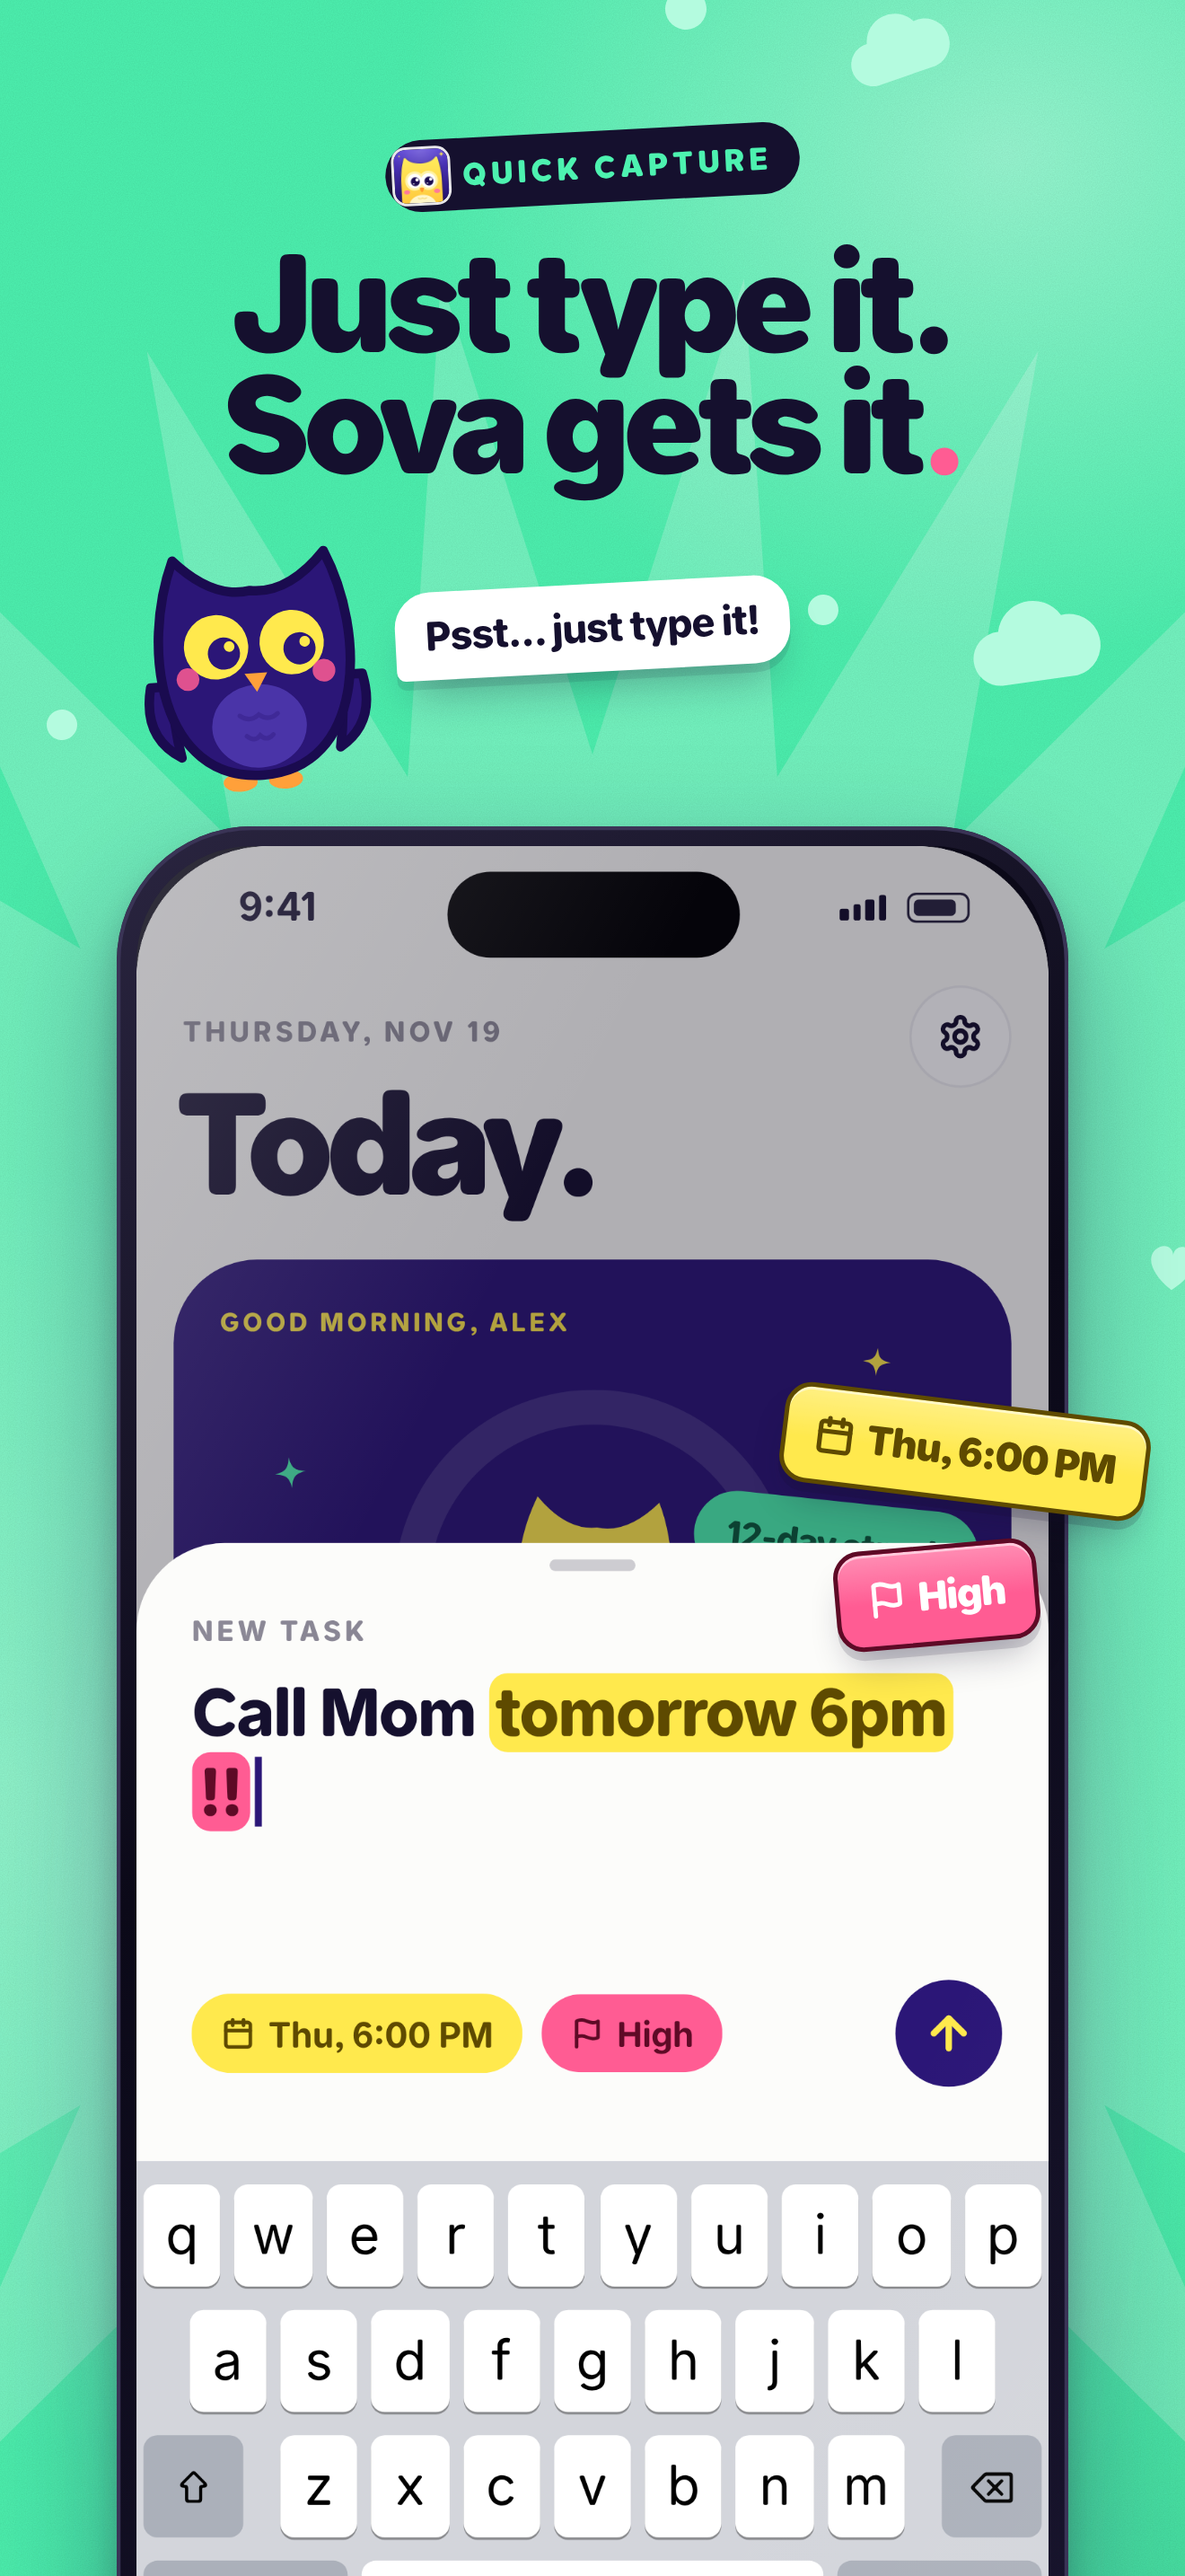
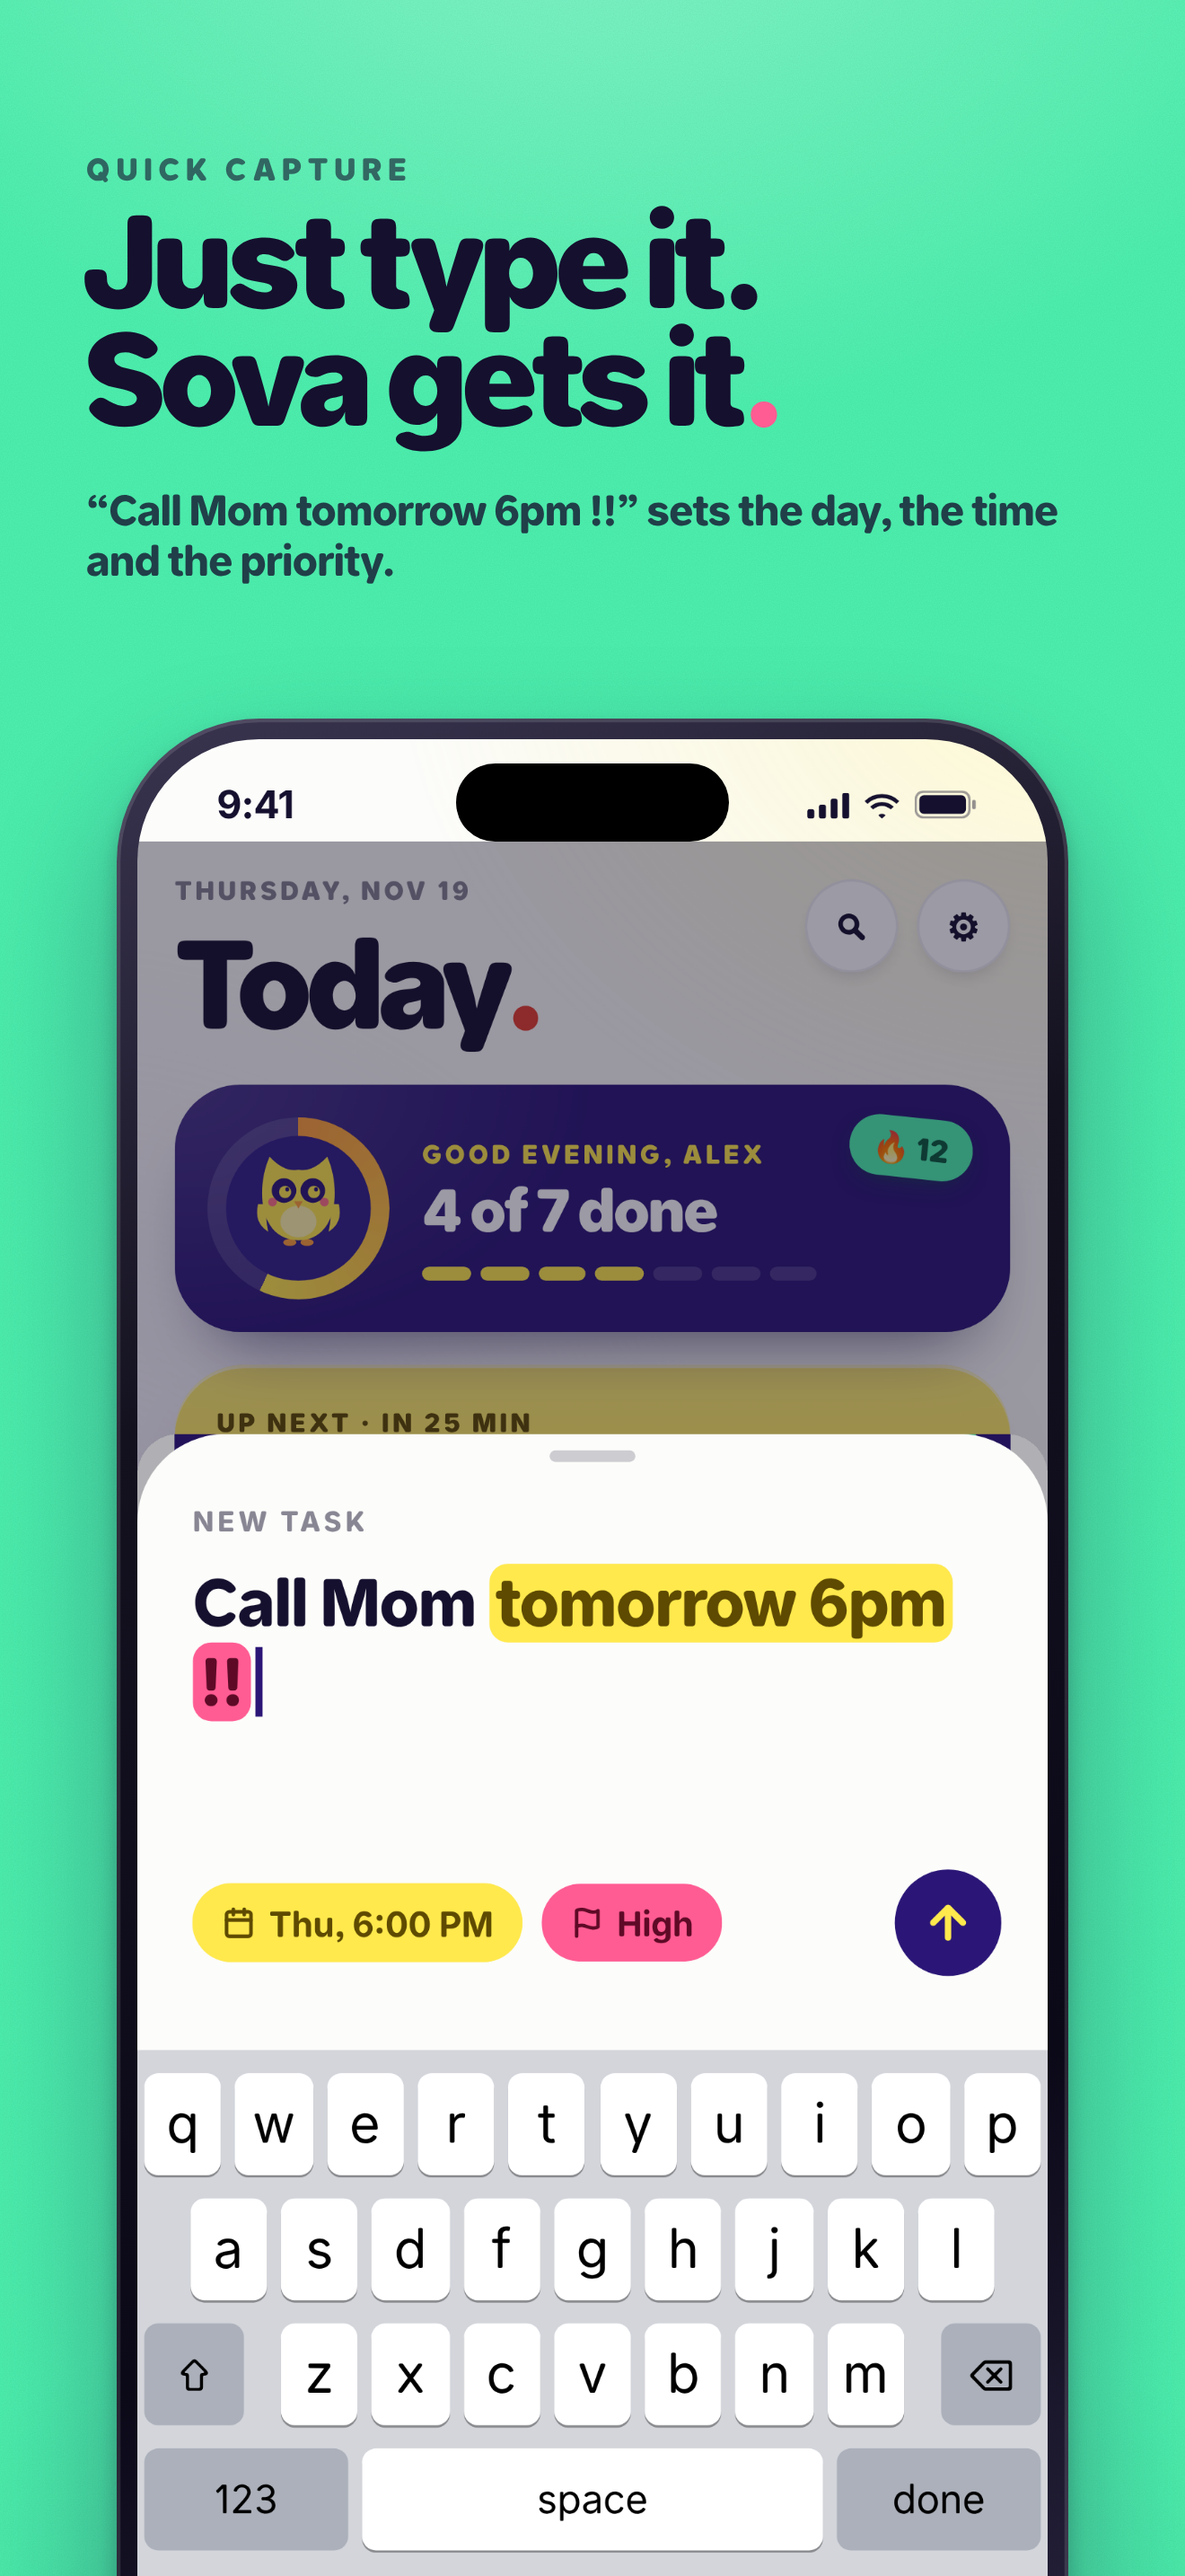
New App Store screenshots, a search preview and an App Preview kit
Screenshots are rebuilt editorially: an eyebrow, a two-line headline
with a colored period, one plain sentence and one large, straight phone
per shot, on a single color with soft light and grain. No floating
hearts, clouds, sparkles or bubbles; the owl appears once, perched on
the first. Every phone shows the current design (Today timeline,
capture over the new Today, Rituals, Tasks, Goals, Insights) with a
real status bar and Dynamic Island.

search-and-header-preview.png shows how the icon, name, subtitle and
first three shots look in App Store search and on the product page.

preview/ holds the App Preview kit: a shot list and recording guide
(Simulator, clean 9:41 status bar) and make-preview.sh, which turns six
clips into an 886x1920, 30 fps, H.264 preview with captions, cross-fades
and a silent stereo track. The press kit, README strip and listing pack
use the new files.

diff --git a/docs/press.html b/docs/press.html
@@ -99,7 +99,7 @@ img,svg{display:block}
 <path d="M40 84 q5 4 10 0 q5 4 10 0 M43 95 q4 3.5 7 0 q3.5 3.5 7 0" stroke="#2B1677" stroke-opacity=".35" stroke-width="2.4" fill="none" stroke-linecap="round"/>
 <g class="eyes"><circle cx="30" cy="47" r="17" fill="#FFE94D"/><g class="pupil"><circle cx="31.5" cy="49" r="8.5" fill="#2B1677"/><circle cx="34.5" cy="45.5" r="2.8" fill="#FFE94D"/></g><circle cx="70" cy="47" r="17" fill="#FFE94D"/><g class="pupil"><circle cx="71.5" cy="49" r="8.5" fill="#2B1677"/><circle cx="74.5" cy="45.5" r="2.8" fill="#FFE94D"/></g></g>
 <circle cx="14" cy="63" r="6" fill="#FF5C93" fill-opacity=".85"/><circle cx="86" cy="63" r="6" fill="#FF5C93" fill-opacity=".85"/>
-<path d="M44 62 L56 62 L50 72Z" fill="#FFA03A"/></svg><h1>Press kit</h1><p>Everything you need to write about Sova.</p></div><div class="layout"><nav class="toc" aria-label="On this page"><a href="#about">About Sova</a><a href="#facts">Fact sheet</a><a href="#assets">Downloads</a><a href="#contact">Press contact</a></nav><article class="doc"><section id="about"><h2>About Sova</h2><p><b>Short:</b> Sova is a friendly iPhone app for tasks, daily habits and big goals, with a little owl cheering you on.</p><p><b>Longer:</b> Sova keeps tasks, rituals and goals in one place. Type a task the way you'd say it and Sova fills in the date, time and priority. Rituals track streaks on the days you choose, goals break into steps, and widgets let you tick things off from the Home Screen. It's free, with Sova Plus for unlimited rituals and goals, iCloud sync and app icons. There's no account and no tracking.</p></section><section id="facts"><h2>Fact sheet</h2><div class="facts"><div><b>Name</b><span>Sova: To-Do List &amp; Habits</span></div><div><b>Platform</b><span>iPhone, iOS 26 or later</span></div><div><b>Price</b><span>Free, Sova Plus optional</span></div><div><b>Developer</b><span>0xpranayyy</span></div><div><b>Website</b><span>0xpranayyy.github.io/sova</span></div><div><b>Category</b><span>Productivity</span></div></div></section><section id="assets"><h2>Downloads</h2><div class="grid-assets"><a class="asset" href="assets/press/sova-icon-1024.png" download><img src="assets/press/sova-icon-1024.png" alt="Sova app icon" loading="lazy">App icon<span>PNG · 1024×1024</span></a><a class="asset" href="assets/press/sova-banner-1920x1080.png" download><img src="assets/press/sova-banner-1920x1080.png" alt="Sova banner" loading="lazy">Banner<span>PNG · 1920×1080</span></a><a class="asset" href="assets/sova-film.mp4" download><img src="assets/film-poster.jpg" alt="Sova film poster" loading="lazy">Launch film<span>MP4 · 31 s · 9:16</span></a><a class="asset" href="assets/press/screenshot-1-hero.png" download><img src="assets/press/screenshot-1-hero.png" alt="Today screenshot" loading="lazy">Today<span>PNG · 1320×2868</span></a><a class="asset" href="assets/press/screenshot-2-capture.png" download><img src="assets/press/screenshot-2-capture.png" alt="Quick capture screenshot" loading="lazy">Quick capture<span>PNG · 1320×2868</span></a><a class="asset" href="assets/press/screenshot-3-rituals.png" download><img src="assets/press/screenshot-3-rituals.png" alt="Rituals screenshot" loading="lazy">Rituals<span>PNG · 1320×2868</span></a><a class="asset" href="assets/press/screenshot-4-goals.png" download><img src="assets/press/screenshot-4-goals.png" alt="Goals screenshot" loading="lazy">Goals<span>PNG · 1320×2868</span></a><a class="asset" href="assets/press/screenshot-5-dark.png" download><img src="assets/press/screenshot-5-dark.png" alt="Dark mode screenshot" loading="lazy">Dark mode<span>PNG · 1320×2868</span></a><a class="asset" href="assets/press/screenshot-6-done.png" download><img src="assets/press/screenshot-6-done.png" alt="All done screenshot" loading="lazy">All done<span>PNG · 1320×2868</span></a></div></section><section id="contact"><h2>Press contact</h2><p>For interviews, review access or questions, see <a href="support.html#contact">how to contact us</a>.</p></section></article></div>
+<path d="M44 62 L56 62 L50 72Z" fill="#FFA03A"/></svg><h1>Press kit</h1><p>Everything you need to write about Sova.</p></div><div class="layout"><nav class="toc" aria-label="On this page"><a href="#about">About Sova</a><a href="#facts">Fact sheet</a><a href="#assets">Downloads</a><a href="#contact">Press contact</a></nav><article class="doc"><section id="about"><h2>About Sova</h2><p><b>Short:</b> Sova is a friendly iPhone app for tasks, daily habits and big goals, with a little owl cheering you on.</p><p><b>Longer:</b> Sova keeps tasks, rituals and goals in one place. Type a task the way you'd say it and Sova fills in the date, time and priority. Rituals track streaks on the days you choose, goals break into steps, and widgets let you tick things off from the Home Screen. It's free, with Sova Plus for unlimited rituals and goals, iCloud sync and app icons. There's no account and no tracking.</p></section><section id="facts"><h2>Fact sheet</h2><div class="facts"><div><b>Name</b><span>Sova: To-Do List &amp; Habits</span></div><div><b>Platform</b><span>iPhone, iOS 26 or later</span></div><div><b>Price</b><span>Free, Sova Plus optional</span></div><div><b>Developer</b><span>0xpranayyy</span></div><div><b>Website</b><span>0xpranayyy.github.io/sova</span></div><div><b>Category</b><span>Productivity</span></div></div></section><section id="assets"><h2>Downloads</h2><div class="grid-assets"><a class="asset" href="assets/press/sova-icon-1024.png" download><img src="assets/press/sova-icon-1024.png" alt="Sova app icon" loading="lazy">App icon<span>PNG · 1024×1024</span></a><a class="asset" href="assets/press/sova-banner-1920x1080.png" download><img src="assets/press/sova-banner-1920x1080.png" alt="Sova banner" loading="lazy">Banner<span>PNG · 1920×1080</span></a><a class="asset" href="assets/sova-film.mp4" download><img src="assets/film-poster.jpg" alt="Sova film poster" loading="lazy">Launch film<span>MP4 · 31 s · 9:16</span></a><a class="asset" href="assets/press/screenshot-1-today.png" download><img src="assets/press/screenshot-1-today.png" alt="Today screenshot" loading="lazy">Today<span>PNG · 1320×2868</span></a><a class="asset" href="assets/press/screenshot-2-capture.png" download><img src="assets/press/screenshot-2-capture.png" alt="Quick capture screenshot" loading="lazy">Quick capture<span>PNG · 1320×2868</span></a><a class="asset" href="assets/press/screenshot-3-rituals.png" download><img src="assets/press/screenshot-3-rituals.png" alt="Rituals screenshot" loading="lazy">Rituals<span>PNG · 1320×2868</span></a><a class="asset" href="assets/press/screenshot-4-tasks.png" download><img src="assets/press/screenshot-4-tasks.png" alt="Tasks screenshot" loading="lazy">Tasks<span>PNG · 1320×2868</span></a><a class="asset" href="assets/press/screenshot-5-goals.png" download><img src="assets/press/screenshot-5-goals.png" alt="Goals screenshot" loading="lazy">Goals<span>PNG · 1320×2868</span></a><a class="asset" href="assets/press/screenshot-6-insights.png" download><img src="assets/press/screenshot-6-insights.png" alt="Insights screenshot" loading="lazy">Insights<span>PNG · 1320×2868</span></a></div></section><section id="contact"><h2>Press contact</h2><p>For interviews, review access or questions, see <a href="support.html#contact">how to contact us</a>.</p></section></article></div>
 </main>
 <footer class="foot">
   <div class="wrap foot-grid">

diff --git a/marketing/app-store/preview/PREVIEW.md b/marketing/app-store/preview/PREVIEW.md
@@ -1,0 +1,89 @@
+# Sova App Preview
+
+An App Preview is the short video that autoplays, without sound, on the App Store page and in search. Apple's rules:
+- **15–30 seconds**
+- **footage captured from the app itself**: no people, no hands, no device frames, no footage of other apps
+- text captions are fine
+
+The marketing film (`marketing/Sova-intro.mp4`) is for social media. It can't be used here.
+
+The plan: record six short clips of the real app, run one script, and upload.
+
+---
+
+## 1. Record on the Simulator
+
+The Simulator gives a perfect 9:41 status bar and no notifications.
+
+1. In Xcode, run Sova on an **iPhone 17 Pro Max** simulator. Use the 6.9" size; Apple scales it for smaller phones.
+2. In Terminal, clean up the status bar once:
+
+   ```bash
+   xcrun simctl status_bar booted override --time 9:41 --batteryState charged --batteryLevel 100 --cellularBars 4 --wifiBars 3
+   ```
+
+3. Set the app up with believable data. You'll need:
+   - a few tasks today: one at 6:00 PM, one with `!!`, one with a checklist
+   - three rituals, including "Drink water" with a target of 8
+   - two goals with steps
+   - your name set to something like "Alex"
+4. To record each clip, run the line below, perform the action, then press **Ctrl-C** to stop:
+
+   ```bash
+   xcrun simctl io booted recordVideo --codec h264 clips/1.mov
+   ```
+
+   Change the number for each clip. Leave about half a second of stillness before and after each action.
+
+You can also record on your iPhone: **Control Center → Screen Recording**. Turn on Do Not Disturb first, and crop out any stray notification.
+
+---
+
+## 2. The six clips
+
+Each clip shows one action. Move a little slower than you normally would.
+
+| # | Length | Caption | What to do |
+|---|---|---|---|
+| 1 | 4.5 s | Your day, at a glance | On **Today**, scroll slowly from the day card down the timeline past the NOW marker, then tick one task. The ring fills. |
+| 2 | 5 s | Just type it | Tap **+** and type `Call Mom tomorrow 6pm !!`. The date and priority light up. Tap send. |
+| 3 | 4 s | Habits that fill up | **Rituals** tab: tap "Drink water" a few times (5 → 6 → 7), then tick a plain ritual so it fills with color. |
+| 4 | 3.5 s | Every task has a home | **Tasks** tab: tap Tomorrow in the calendar strip, then tap it again to show everything. |
+| 5 | 4.5 s | Big goals, small steps | **Goals**: open a goal and tick a step. The percentage rolls up. Or, on a device with Apple Intelligence: New Goal → **Suggest steps**. |
+| 6 | 5 s | Finish your day with a smile | Back on **Today**, tick the last thing. The owl celebrates and the wave opens "Day done!". |
+
+That's about 27 seconds after the cross-fades: inside Apple's limit, with room to spare.
+
+---
+
+## 3. Make the preview
+
+Put the clips in `marketing/app-store/preview/clips/` as `1.mov` … `6.mov`, then run:
+
+```bash
+brew install ffmpeg
+```
+
+```bash
+cd marketing/app-store/preview && ./make-preview.sh
+```
+
+You get `Sova-App-Preview.mp4`:
+- 886 × 1920 at 30 fps
+- H.264 video with a silent stereo track
+- a yellow caption on each clip, in Allo
+- quick cross-fades between clips
+
+For a version without captions, run `./make-preview.sh --plain`.
+
+Or send me the six clips and I'll make it.
+
+---
+
+## 4. Upload
+
+1. **App Store Connect → Sova → 1.0 → App Previews and Screenshots → 6.9" Display.**
+2. Drop the video in the first slot, before the screenshots.
+3. Choose the **poster frame**. Pick the moment in clip 1 where the day card and timeline are both on screen; that frame is what people see before it plays.
+
+Apple processes previews for a few minutes before they show.

diff --git a/marketing/app-store/LISTING-PACK.md b/marketing/app-store/LISTING-PACK.md
@@ -162,16 +162,16 @@ todo,task,manager,reminder,routine,schedule,checklist,streak,productivity,widget
 
 ### Screenshots: iPhone 6.9" Display
 Upload in this order from `marketing/app-store/6.9-inch/`:
-1. `1-hero.png`
+1. `1-today.png`
 2. `2-capture.png`
 3. `3-rituals.png`
-4. `4-goals.png`
-5. `5-dark.png`
-6. `6-done.png`
+4. `4-tasks.png`
+5. `5-goals.png`
+6. `6-insights.png`
 
 App Store Connect scales them down for smaller iPhones automatically. If it asks for 6.7", use the same names from `marketing/app-store/6.7-inch/`.
 
-**App Preview (optional):** `marketing/Sova-intro.mp4`. Apple allows 15–30 seconds; trim a second if it complains.
+**App Preview (optional):** record the six clips in `preview/PREVIEW.md`, then run `preview/make-preview.sh`. (`marketing/Sova-intro.mp4` is a marketing film for social media; App Previews must be footage of the app itself.)
 
 ### Build
 Choose the build uploaded from Xcode or the cloud build. Encryption is already declared in the app, so you won't be asked.

diff --git a/marketing/app-store/PUBLISHING.md b/marketing/app-store/PUBLISHING.md
@@ -75,7 +75,7 @@ For each product:
 - The result shows "Data Not Collected". This matches the privacy manifest in the app.
 
 ## 9. Version 1.0 page
-- **Screenshots (6.9" display):** upload `marketing/app-store/6.9-inch/1-hero.png` … `6-done.png` in order. App Store Connect scales them for smaller iPhones. The `6.7-inch` set is there if it asks.
+- **Screenshots (6.9" display):** upload `marketing/app-store/6.9-inch/1-today.png` … `6-insights.png` in order. App Store Connect scales them for smaller iPhones. The `6.7-inch` set is there if it asks.
 - **App preview (optional):** `marketing/Sova-intro.mp4`. App Store previews have size and length rules, so trim it in iMovie or QuickTime if App Store Connect rejects it.
 - **Promotional text, description, keywords, What's New:** copy from `DESCRIPTION.md`.
 - **Build:** pick the uploaded build. Export compliance is already answered in the app (no non-exempt encryption).

diff --git a/README.md b/README.md
@@ -74,7 +74,7 @@ Give a goal a deadline, break it into steps and link tasks to it. Every step you
 ## Screens
 
 <p align="center">
-  <img src=".github/readme/screens.jpg" width="100%" alt="Six Sova screens: Today, quick capture, Rituals, Goals, dark mode and a finished day">
+  <img src=".github/readme/screens.jpg" width="100%" alt="Six Sova screens: Today, quick capture, Rituals, Tasks, Goals and Insights">
 </p>
 
 <br>
